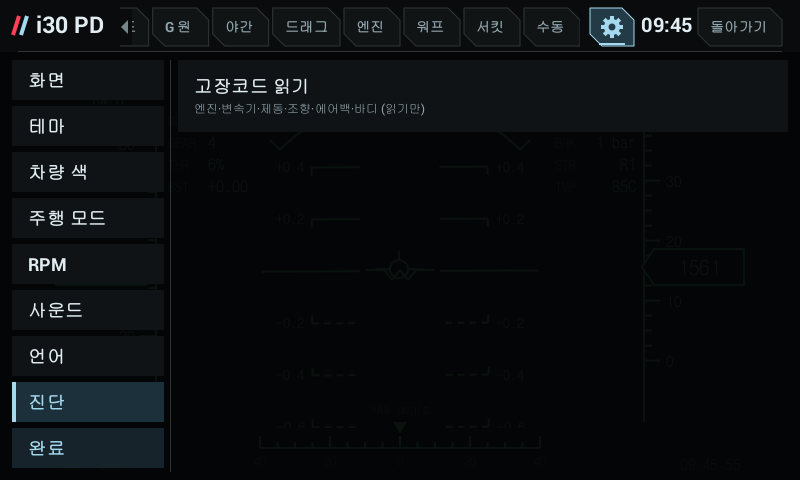
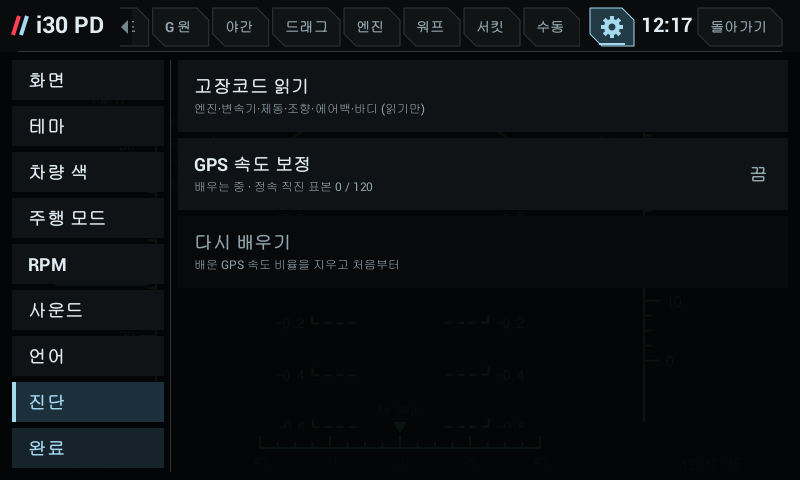
GPS speed calibration (설정 → 진단, off by default): learns GPS ÷ car speed, applies it to the shown speed and the runs
SpeedCal takes a sample once a GPS fix (with its own speed, within 10 m) lands after 3 s of steady (±2 km/h,
40-130 km/h), straight (yaw ≤ 3 °/s), unbraked driving and two GPS speeds agree, comparing it with the car's average
over the second before the fix. The ratio is the median of the last 600 samples, used from 120, kept within 0.90-1.10,
saved with its sample count, and learned whether or not it is switched on. On, Telemetry.speedScale multiplies the shown
vehicle speed (displayValue, so every screen, gauge and graph) and DriveStats' runs and peaks; the 6MT gear, learned
ratios, gear rpm targets, shift numbers and the taxi distance keep the car's speed. 다시 배우기 starts over.
Gps keeps the fix's speed and logs, once, the firmware's GNSS / dead-reckoning Location getters beside getSpeed.

(cherry picked from commit b0f089a83124199a58ab002be962e6e27dcdf5ba)

diff --git a/shared/src/com/veloster/vehicle/VehicleDash.java b/shared/src/com/veloster/vehicle/VehicleDash.java
@@ -41,6 +41,8 @@ public final class VehicleDash extends View implements Runnable {
     private boolean picker,editing;
     /** Options: accent colour follows the drive mode; SPORT/ECO open their screen (ClusterPicker.onMode). */
     private boolean modeColor,modeScreen;
+    /** GPS speed calibration (설정 → 진단): learned all the time, applied to the shown speed and the runs only when on. */
+    private boolean speedCalOn;private final SpeedCal speedCal=new SpeedCal();private long speedCalSavedAt;private int speedCalSavedN;
     private int lastMode=-1,modeBack=-1;
     /** Settings category open on the left of the gear's settings (SettingsLayout). */
     private int settingsCat=SettingsLayout.SCREENS;
@@ -159,7 +161,7 @@ public final class VehicleDash extends View implements Runnable {
         catch(ClassCastException e){CarPaint.select("blue");}
         try{Weather.selectSky(a.getSharedPreferences("pit_vehicle_ui",0).getString("sky_8bit","auto"));}
         catch(ClassCastException e){Weather.selectSky("auto");}
-        try{SharedPreferences p=a.getSharedPreferences("pit_vehicle_ui",0);modeColor=p.getBoolean("mode_color",false);modeScreen=p.getBoolean("mode_screen",false);
+        try{SharedPreferences p=a.getSharedPreferences("pit_vehicle_ui",0);modeColor=p.getBoolean("mode_color",false);speedCalOn=p.getBoolean("speed_cal",false);speedCal.restore(p.getFloat("speed_cal_ratio",Float.NaN),p.getInt("speed_cal_samples",0));modeScreen=p.getBoolean("mode_screen",false);
             for(int k=0;k<modeTargets.length;k++)modeTargets[k]=ClusterPicker.validTarget(p.getInt("mode_screen_"+ClusterPicker.MODE_NAMES[k].toLowerCase(java.util.Locale.US),ClusterPicker.MODE_DEFAULT[k]));}
         catch(ClassCastException e){/* Both options off for an incompatible saved value. */}
         try{
@@ -316,6 +318,13 @@ public final class VehicleDash extends View implements Runnable {
         renderer.setGraphLayout(graphs?graphLayout:null);
         renderer.setSymmetric(symmetric);
         renderer.setPage(page);
+        {Telemetry.Sample sp=DATA.sample(7,now),yw=DATA.sample(Telemetry.YAW,now),bs=DATA.sample(Telemetry.BRAKE_SWITCH,now),bp=DATA.sample(10,now);
+         boolean braking=bs.valid&&bs.value>0||bp.valid&&bp.value>1;
+         speedCal.update(now,sp.valid&&sp.ageMs<=500?sp.value:Float.NaN,yw.valid?yw.value:Float.NaN,braking,GpsFix.seq,GpsFix.fresh()?GpsFix.speedKmh:Float.NaN,GpsFix.accuracy);
+         float r=speedCal.ratio();Telemetry.speedScale=speedCalOn&&!Float.isNaN(r)?r:1;
+         if(!Float.isNaN(r)&&speedCal.samples()!=speedCalSavedN&&now-speedCalSavedAt>60000){speedCalSavedAt=now;speedCalSavedN=speedCal.samples();
+             activity.getSharedPreferences("pit_vehicle_ui",0).edit().putFloat("speed_cal_ratio",r).putInt("speed_cal_samples",speedCalSavedN).apply();}}
+        renderer.setSpeedCal(speedCalOn,speedCal.ratio(),speedCal.samples());
         Telemetry.Sample ms=DATA.sample(Telemetry.DRIVE_MODE,now);int mode=ms.valid?(int)ms.value:-1;
         Theme.mode(modeColor?mode:-1);
         if(mode!=lastMode){
@@ -451,7 +460,10 @@ public final class VehicleDash extends View implements Runnable {
                     applySound();
                     e.putBoolean("engine_sound",soundOn).putInt("engine_sound_route",soundRoute).putInt("engine_sound_engine",soundEngine).putInt("engine_sound_exhaust",soundExhaust);
                     sound.play(soundOn&&resumed&&getVisibility()==VISIBLE?soundRoute:-1);break;
-                case SettingsLayout.DIAG:DtcDialog.show(activity);break;   // read-only trouble codes
+                case SettingsLayout.DIAG:
+                    if(i==1){speedCalOn=!speedCalOn;e.putBoolean("speed_cal",speedCalOn);break;}
+                    if(i==2){speedCal.reset();e.remove("speed_cal_ratio").remove("speed_cal_samples");break;}
+                    DtcDialog.show(activity);break;   // read-only trouble codes
             }
             e.apply();invalidate();return true;
         }

diff --git a/shared/src/com/veloster/vehicle/SpeedCal.java b/shared/src/com/veloster/vehicle/SpeedCal.java
@@ -1,0 +1,56 @@
+package com.veloster.vehicle;
+
+/**
+ * GPS speed calibration (설정 → 진단 → GPS 속도 보정, off by default): learns GPS speed ÷ car speed and the dashboard
+ * multiplies the shown speed and the measured runs by it. A sample counts only when the GPS gives its own speed with a
+ * fix within MAX_ACC_M, and for the STEADY_MS before it the car held MIN_KMH-MAX_KMH within STEADY_KMH, went straight
+ * (yaw under MAX_YAW) and was not braking, and the last two GPS speeds agree within STEADY_KMH: steady, straight,
+ * open-sky driving, where a 1 s GPS fix and the CAN speed describe the same thing. The GPS speed is compared with the
+ * car's average over the second before the fix (the fix arrives late). The ratio is the median of the last RING
+ * samples (a tunnel exit or a bad fix cannot move it), used once MIN_SAMPLES are in; a ratio outside 0.90-1.10 is not a
+ * speedometer error and is dropped. The internal sums (6MT gear, learned ratios, shift numbers) keep the car's speed.
+ * No Android: host-tested.
+ */
+public final class SpeedCal {
+    public static final int MIN_SAMPLES=120,RING=600;
+    public static final float MIN_KMH=40,MAX_KMH=130,STEADY_KMH=2,MAX_YAW=3,MAX_ACC_M=10,LO=0.90f,HI=1.10f;
+    public static final long STEADY_MS=3000;
+    private final float[] ring=new float[RING];private int n,head;
+    private float saved=Float.NaN;private int total;
+    // the car's last few seconds, frame by frame
+    private static final int HIST=256;
+    private final long[] ht=new long[HIST];private final float[] hv=new float[HIST];private final boolean[] hok=new boolean[HIST];private int hn,hi;
+    private int lastSeq=-1;private float lastGps=Float.NaN;private long lastGpsAt;
+
+    /** A learned ratio from an earlier drive (saved preferences) and how many samples made it. */
+    public void restore(float ratio,int samples){if(ratio>=LO&&ratio<=HI){saved=ratio;total=samples;}}
+    public void reset(){n=0;head=0;saved=Float.NaN;total=0;}
+    /** The ratio to apply, or NaN while fewer than MIN_SAMPLES have been seen. */
+    public float ratio(){
+        if(n>=MIN_SAMPLES){float[] a=new float[n];System.arraycopy(ring,0,a,0,n);java.util.Arrays.sort(a);return n%2==1?a[n/2]:(a[n/2-1]+a[n/2])/2;}
+        return total>=MIN_SAMPLES?saved:Float.NaN;
+    }
+    /** Samples behind the ratio, this drive's added to the saved ones. */
+    public int samples(){return total;}
+
+    /** Every frame: the car's speed and whether this frame is fit (straight, not braking); then, when gpsSeq moved on,
+     *  the GPS speed (km/h, NaN without one) and accuracy (m) of that fix. Returns true when a sample was taken. */
+    public boolean update(long now,float carKmh,float yaw,boolean braking,int gpsSeq,float gpsKmh,float gpsAcc){
+        boolean ok=!Float.isNaN(carKmh)&&carKmh>=MIN_KMH&&carKmh<=MAX_KMH&&!braking&&!Float.isNaN(yaw)&&Math.abs(yaw)<=MAX_YAW;
+        ht[hi]=now;hv[hi]=carKmh;hok[hi]=ok;hi=(hi+1)%HIST;if(hn<HIST)hn++;
+        if(gpsSeq==lastSeq)return false;
+        lastSeq=gpsSeq;
+        float prev=lastGps;long prevAt=lastGpsAt;lastGps=gpsKmh;lastGpsAt=now;
+        if(Float.isNaN(gpsKmh)||!(gpsAcc<=MAX_ACC_M)||Float.isNaN(prev)||now-prevAt>1500||Math.abs(gpsKmh-prev)>STEADY_KMH)return false;
+        // the car over the last STEADY_MS: every frame fit, within STEADY_KMH, and covering the whole span
+        float lo=Float.MAX_VALUE,hiV=-Float.MAX_VALUE,sum=0;int cnt=0;long oldest=now;
+        for(int k=1;k<=hn;k++){int j=(hi-k+HIST)%HIST;if(now-ht[j]>STEADY_MS)break;
+            if(!hok[j])return false;lo=Math.min(lo,hv[j]);hiV=Math.max(hiV,hv[j]);oldest=ht[j];
+            if(now-ht[j]<=1000){sum+=hv[j];cnt++;}}
+        if(cnt==0||now-oldest<STEADY_MS-200||hiV-lo>STEADY_KMH)return false;
+        float r=gpsKmh/(sum/cnt);
+        if(r<LO||r>HI)return false;
+        ring[head]=r;head=(head+1)%RING;if(n<RING)n++;total++;
+        return true;
+    }
+}

diff --git a/shared/src/com/veloster/vehicle/Gps.java b/shared/src/com/veloster/vehicle/Gps.java
@@ -18,7 +18,7 @@ final class Gps implements LocationListener {
     private static Gps running;
     private LocationManager lm;
     private int fixes;
-    private long logAt,startAt;
+    private long logAt,startAt;private boolean extrasLogged;
 
     static void start(Context c){
         if(running!=null)return;
@@ -41,12 +41,22 @@ final class Gps implements LocationListener {
     @Override public void onLocationChanged(Location l){
         long now=SystemClock.elapsedRealtime();
         if(!GpsFix.any())android.util.Log.i("VehicleDash","GPS first fix after "+(now-startAt)/1000+" s");
-        GpsFix.set(l.getLatitude(),l.getLongitude(),l.hasAccuracy()?l.getAccuracy():Float.NaN);fixes++;
+        GpsFix.set(l.getLatitude(),l.getLongitude(),l.hasAccuracy()?l.getAccuracy():Float.NaN,l.hasSpeed()?l.getSpeed()*3.6f:Float.NaN);fixes++;
+        if(!extrasLogged){extrasLogged=true;logExtras(l);}
         if(now-logAt>=60000){
             int z=TaxiZones.at(GpsFix.lat,GpsFix.lon);
-            android.util.Log.i("VehicleDash","GPS "+fixes+" fixes in "+(now-logAt)/1000+" s, accuracy "+Math.round(GpsFix.accuracy)+" m, fare table "+(z<0?"none":TaxiZones.tariff(z)));
+            android.util.Log.i("VehicleDash","GPS "+fixes+" fixes in "+(now-logAt)/1000+" s, accuracy "+Math.round(GpsFix.accuracy)+" m, speed "+(Float.isNaN(GpsFix.speedKmh)?"none":Math.round(GpsFix.speedKmh)+" km/h")+", fare table "+(z<0?"none":TaxiZones.tariff(z)));
             fixes=0;logAt=now;
         }
+    }
+    /** Once: the firmware's own Location getters (Hyundai adds GNSS / dead-reckoning fields), so a [진단 기록] shows whether a
+     *  pure satellite speed exists beside getSpeed (the Trimble receiver may blend in the wheel speed). Values only, no position. */
+    private static void logExtras(Location l){
+        StringBuilder b=new StringBuilder();
+        for(java.lang.reflect.Method m:l.getClass().getMethods()){String n=m.getName().toLowerCase(java.util.Locale.US);
+            if(m.getParameterTypes().length!=0||!(n.contains("gnss")||n.contains("dr")||n.contains("gpsstatus")))continue;
+            try{b.append(m.getName()).append('=').append(m.invoke(l)).append(' ');}catch(Exception e){b.append(m.getName()).append("=? ");}}
+        android.util.Log.i("VehicleDash","GPS fields: speed "+(l.hasSpeed()?l.getSpeed()*3.6f:-1)+" km/h, "+b.toString().trim());
     }
     @Override public void onStatusChanged(String provider,int status,Bundle extras){}
     @Override public void onProviderEnabled(String provider){android.util.Log.i("VehicleDash","GPS provider enabled");}

diff --git a/tests/SpeedCalTest.java b/tests/SpeedCalTest.java
@@ -1,0 +1,37 @@
+import com.veloster.vehicle.SpeedCal;
+
+/** GPS speed calibration: steady straight samples only, the median, the 0.90-1.10 guard, restore / reset. */
+public final class SpeedCalTest {
+    private static int checks;
+    private static void check(boolean b,String s){checks++;if(!b)throw new AssertionError(s);}
+    /** secs of driving at carKmh (20 ms frames) with a GPS fix a second reading gpsKmh(i). */
+    private static long drive(SpeedCal c,long t,int secs,float carKmh,float yaw,boolean brake,float[] gps,int seq0,float acc){
+        for(int s=0;s<secs;s++){for(int f=0;f<50;f++){t+=20;c.update(t,carKmh,yaw,brake,f==49?seq0+s:seq0+s-1,gps[s%gps.length],acc);}}   // a new fix once a second, as GpsFix.seq moves
+        return t;
+    }
+    public static void main(String[] a){
+        // the speedometer reads 3 % high: 103 shown at a true 100
+        SpeedCal c=new SpeedCal();long t=drive(c,0,200,103,0.5f,false,new float[]{100},0,4);
+        check(Float.isNaN(new SpeedCal().ratio()),"nothing learned at first");
+        check(c.samples()>=MIN()&&Math.abs(c.ratio()-100f/103)<0.001f,"steady straight: 100 / 103");
+        // a bad fix in among them does not move the median
+        t=drive(c,t,30,103,0.5f,false,new float[]{100,100,100,100,100,100,100,100,100,92},200,4);
+        check(Math.abs(c.ratio()-100f/103)<0.002f,"one-off bad fixes leave the median");
+        // braking, turning, a poor fix, too slow: no samples
+        int n=c.samples();
+        t=drive(c,t,20,103,0.5f,true,new float[]{100},300,4);
+        t=drive(c,t,20,103,8f,false,new float[]{100},400,4);
+        t=drive(c,t,20,103,0.5f,false,new float[]{100},500,25);
+        t=drive(c,t,20,35,0.5f,false,new float[]{34},600,4);
+        check(c.samples()==n,"braking, a bend, a 25 m fix and 35 km/h add nothing");
+        // a ratio outside 0.90-1.10 is not a speedometer error
+        SpeedCal w=new SpeedCal();drive(w,0,200,100,0.5f,false,new float[]{80},0,4);
+        check(w.samples()==0,"GPS 20 % off: dropped");
+        // a saved ratio stands until this drive has its own, reset forgets it
+        SpeedCal r=new SpeedCal();r.restore(0.97f,500);
+        check(Math.abs(r.ratio()-0.97f)<1e-6&&r.samples()==500,"restored 0.97 from 500 samples");
+        r.reset();check(Float.isNaN(r.ratio())&&r.samples()==0,"reset forgets");
+        System.out.println("PASS "+checks+" GPS speed calibration checks");
+    }
+    private static int MIN(){return SpeedCal.MIN_SAMPLES;}
+}

diff --git a/shared/src/com/veloster/vehicle/PitRenderer.java b/shared/src/com/veloster/vehicle/PitRenderer.java
@@ -56,6 +56,8 @@ public final class PitRenderer {
     /** Drive-mode options shown on their edit tiles: accent colour by mode, screen by mode. */
     private boolean modeColor,modeScreen;
     public void setModeOptions(boolean color,boolean screen){modeColor=color;modeScreen=screen;}
+    private boolean speedCalOn;private float speedCalRatio=Float.NaN;private int speedCalSamples;
+    public void setSpeedCal(boolean on,float ratio,int samples){speedCalOn=on;speedCalRatio=ratio;speedCalSamples=samples;}
     /** Settings category open on the left (SettingsLayout) and the saved language choice, for the gear's settings. */
     private int settingsCat,pickSlot=-1;
     private String langSel="auto";
@@ -294,7 +296,11 @@ public final class PitRenderer {
                         dim=!soundOn||noTurbo;}   // one line per row: nine rows fill the pane
                     break;
                 case SettingsLayout.LANG:sel=SettingsLayout.LANGS[i].equals(langSel);name=SettingsLayout.LANG_NAMES[i];break;
-                default:name="고장코드 읽기";sub="엔진·변속기·제동·조향·에어백·바디 (읽기만)";
+                default:if(i==1){sel=speedCalOn;name="GPS 속도 보정";value=speedCalOn?"켬":"끔";
+                        sub=Float.isNaN(speedCalRatio)?String.format(Locale.US,UiText.t("배우는 중 · 정속 직진 표본 %d / %d"),speedCalSamples,SpeedCal.MIN_SAMPLES)
+                            :String.format(Locale.US,UiText.t("배운 비율 %+.1f %% · 표본 %,d · 표시 속도와 측정에 적용"),(speedCalRatio-1)*100,speedCalSamples);}
+                    else if(i==2){name="다시 배우기";sub="배운 GPS 속도 비율을 지우고 처음부터";dim=speedCalSamples==0;}
+                    else{name="고장코드 읽기";sub="엔진·변속기·제동·조향·에어백·바디 (읽기만)";}
             }
             box(c,l,t,l+w,t+h,sel?0xff1c303b:dim?0xff08090a:0xff101315);
             if(sel){box(c,l,t,l+w,t+3,BLUE);box(c,l,t+h-3,l+w,t+h,BLUE);box(c,l,t,l+3,t+h,BLUE);box(c,l+w-3,t,l+w,t+h,BLUE);}

diff --git a/shared/src/com/veloster/i18n/UiText.java b/shared/src/com/veloster/i18n/UiText.java
@@ -71,6 +71,7 @@ public final class UiText {
         EN.put("G-포스","G-force");
         EN.put("GPS 끊김","GPS lost");
         EN.put("GPS 랩 타이머","GPS lap timer");
+        EN.put("GPS 속도 보정","GPS speed calibration");
         EN.put("GPS 신호를 기다리는 중","Waiting for GPS");
         EN.put("GPS 없음","no GPS");
         EN.put("GPS·오디오 등 실제 연결은 해당 앱에서 진행합니다. 기기를 선택해 확인할 때만 페어링을 요청합니다.","Use the relevant app for GPS or audio connections. Pairing is requested only after you select and confirm a device.");
@@ -200,6 +201,7 @@ public final class UiText {
         EN.put("눌러서 화면 고르기","Tap to choose a screen");
         EN.put("늦어진 정도로 추정합니다.","is estimated as retard.");
         EN.put("다른 칸과 위치 바꾸기","Swap with another slot");
+        EN.put("다시 배우기","Learn again");
         EN.put("다시 조회","Read again");
         EN.put("다운시프트 맞춤 소리가 나는 화면 · 누르면 바뀜","Where the downshift match sounds play · tap to change");
         EN.put("다음","Next");
@@ -268,6 +270,9 @@ public final class UiText {
         EN.put("바로가기: ","Shortcut: ");
         EN.put("반응 시간","Reaction");
         EN.put("배기","Exhaust");
+        EN.put("배우는 중 · 정속 직진 표본 %d / %d","Learning · steady straight samples %d / %d");
+        EN.put("배운 GPS 속도 비율을 지우고 처음부터","Forget the learned GPS speed ratio and start over");
+        EN.put("배운 비율 %+.1f %% · 표본 %,d · 표시 속도와 측정에 적용","Learned %+.1f %% · %,d samples · applied to the shown speed and runs");
         EN.put("배터리 SOC","Battery SOC");
         EN.put("배터리 전압","Battery voltage");
         EN.put("백업 저장 실패. 무선 설정을 변경하지 않았습니다.","Backup could not be saved. Wireless settings were not changed.");

diff --git a/shared/src/com/veloster/vehicle/GpsFix.java b/shared/src/com/veloster/vehicle/GpsFix.java
@@ -5,11 +5,14 @@ public final class GpsFix {
     private GpsFix(){}
     public static volatile double lat,lon;
     public static volatile float accuracy=Float.NaN;
+    /** The receiver's own speed of the last fix in km/h, NaN when the fix had none (SpeedCal). */
+    public static volatile float speedKmh=Float.NaN;
     /** System.nanoTime of the last fix in ms, 0 before the first. */
     public static volatile long at;
     /** Counts fixes, so a reader can take each one once (CircuitCluster). */
     public static volatile int seq;
-    public static void set(double latitude,double longitude,float acc){lat=latitude;lon=longitude;accuracy=acc;at=Math.max(1,System.nanoTime()/1000000);seq++;}
+    public static void set(double latitude,double longitude,float acc){set(latitude,longitude,acc,Float.NaN);}
+    public static void set(double latitude,double longitude,float acc,float kmh){lat=latitude;lon=longitude;accuracy=acc;speedKmh=kmh;at=Math.max(1,System.nanoTime()/1000000);seq++;}
     public static boolean any(){return at>0;}
     /** Fresh enough to place the car (the receiver sends about one a second). */
     public static boolean fresh(){long t=at;return t>0&&System.nanoTime()/1000000-t<5000;}

diff --git a/shared/src/com/veloster/vehicle/DriveStats.java b/shared/src/com/veloster/vehicle/DriveStats.java
@@ -47,7 +47,7 @@ public final class DriveStats {
     /** 6MT shift measurements for the 수동 screen, and the gear ratios learned for gearboxes without a table (7DCT, diesel). */
     public final ShiftCoach coach=new ShiftCoach();public final GearRatios ratios=new GearRatios();
     public void update(Telemetry.Sample[] s,long now){
-        update(now,f(s,7),at(s,7,now),f(s,0),f(s,Telemetry.BOOST),f(s,11),f(s,12),at(s,12,now),f(s,2),f(s,9));
+        update(now,f(s,7)*Telemetry.speedScale,at(s,7,now),f(s,0),f(s,Telemetry.BOOST),f(s,11),f(s,12),at(s,12,now),f(s,2),f(s,9));
         Telemetry.Sample cl=s[Telemetry.CLUTCH];float gear=s[8].valid?s[8].value:Float.NaN;boolean in=cl.valid&&cl.value>0;
         coach.update(now,f(s,0),f(s,7),gear,in,f(s,10),f(s,9),f(s,12));ratios.update(now,gear,f(s,0),f(s,7),in);
         for(int k=0;k<2;k++){Telemetry.Sample x=s[Telemetry.CLUTCH_ODD+k];if(!x.valid||x.ageMs>5000)continue;

diff --git a/shared/src/com/veloster/vehicle/Telemetry.java b/shared/src/com/veloster/vehicle/Telemetry.java
@@ -33,7 +33,9 @@ public final class Telemetry {
     public static final float BRAKING_BAR=3;
     public static boolean braking(float sw,float bar){return !Float.isNaN(sw)?sw>0:bar>BRAKING_BAR;}
     /** Display orientation follows the driver's reported left/right convention. Raw SAS stays unchanged. */
-    public static float displayValue(int signal,float raw){return signal==STEERING?(raw==0?0:-raw):raw;}
+    /** GPS speed calibration (SpeedCal) applied to the shown vehicle speed; 1 when off or not learned yet. */
+    public static volatile float speedScale=1;
+    public static float displayValue(int signal,float raw){return signal==STEERING?(raw==0?0:-raw):signal==7?raw*speedScale:raw;}
     /** String.format(Locale.US,f,x), but a value that rounds to zero loses its minus: idle boost -0.004 reads 0.00
      * (+0.00 under a '+' flag), not -0.00. */
     public static String format(String f,float x){

diff --git a/i30pd_port/app/preview/TabsPreview.java b/i30pd_port/app/preview/TabsPreview.java
@@ -89,6 +89,7 @@ public final class TabsPreview {
         rec.setBeep(true,2,70,new int[]{0,2,-1},1);rec.setSettings(4,"auto",-1,targets);save(out,"9_settings_rpm_beep",rec,model,now,false,false);rec.setBeep(false,0,70,new int[]{-1,-1,-1},0);
         rec.setModeOptions(true,true);rec.setSettings(3,"auto",-1,targets);save(out,"9_settings_mode_on",rec,model,now,false,false);
         rec.setSettings(3,"auto",0,targets);save(out,"9_settings_mode_pick",rec,model,now,false,false);
+        rec.setSpeedCal(true,0.968f,1240);rec.setSettings(7,"auto",-1,targets);save(out,"9_settings_diag_speedcal",rec,model,now,false,false);rec.setSpeedCal(false,Float.NaN,0);   // GPS speed calibration learned, on
         rec.setPicker(false,false,0);rec.setModeOptions(false,false);
         // Missing signals (empty model) and a 6MT profile, drawn straight through ClusterRenderer.
         Telemetry none=new Telemetry();

diff --git a/shared/src/com/veloster/vehicle/SettingsLayout.java b/shared/src/com/veloster/vehicle/SettingsLayout.java
@@ -68,7 +68,7 @@ public final class SettingsLayout {
     /** Choices in a category's pane (완료 has none). */
     public static int count(int cat){
         switch(cat){case SCREENS:return ClusterPicker.COUNT;case THEME:return Theme.IDS.length;case PAINT:return CarPaint.IDS.length+1;   // the last tile is the 8-bit sky (Weather)
-            case MODE:return MODE_FIRST+ClusterPicker.MODES.length;case RPM:return RPM_DOWN1+3;case SOUND:return ENGINE_SOUND?SOUND_LEAD+1:1;case LANG:return LANGS.length;case DIAG:return 1;
+            case MODE:return MODE_FIRST+ClusterPicker.MODES.length;case RPM:return RPM_DOWN1+3;case SOUND:return ENGINE_SOUND?SOUND_LEAD+1:1;case LANG:return LANGS.length;case DIAG:return 3;
             case PICK:return ClusterPicker.COUNT+1;default:return 0;}
     }
     public static int cols(int cat){return cat==SCREENS||cat==PICK?4:cat==THEME||cat==PAINT?2:1;}

diff --git a/shared/src/com/veloster/vehicle/LambdaCluster.java b/shared/src/com/veloster/vehicle/LambdaCluster.java
@@ -47,7 +47,7 @@ final class LambdaCluster extends ClusterKit {
         int rc=matched>0?GREEN:shift?(blink(now,120)?BLUE:DIM):acc;
         lambda(c,LCX,Float.isNaN(rpm)?0:rpm/prof.maxRpm,prof.redline/prof.maxRpm,rc,matched>0||shift);
         for(int k=1;k*1000<=prof.maxRpm;k++)scale(c,LCX,k*1000/prof.maxRpm,String.valueOf(k),k*1000>=prof.redline?RED:WH);
-        gears(c,rpm,kmh,gear,shown,mt,matched);
+        gears(c,rpm,s[7].valid?s[7].value:Float.NaN,gear,shown,mt,matched);   // the car's speed: ratios are learned against it
         bold(c,fmt("%.0f",rpm),LCX,BOT+4,20,matched>0?GREEN:WH,Paint.Align.CENTER);mono(c,"x1000 rpm",LCX,BOT+22,11,GREY,Paint.Align.CENTER);
         lambda(c,RCX,Float.isNaN(kmh)?0:kmh/SPEED_MAX,2,GREEN,false);
         for(int k=20;k<=SPEED_MAX;k+=40)scale(c,RCX,k/SPEED_MAX,String.valueOf(k),WH);
